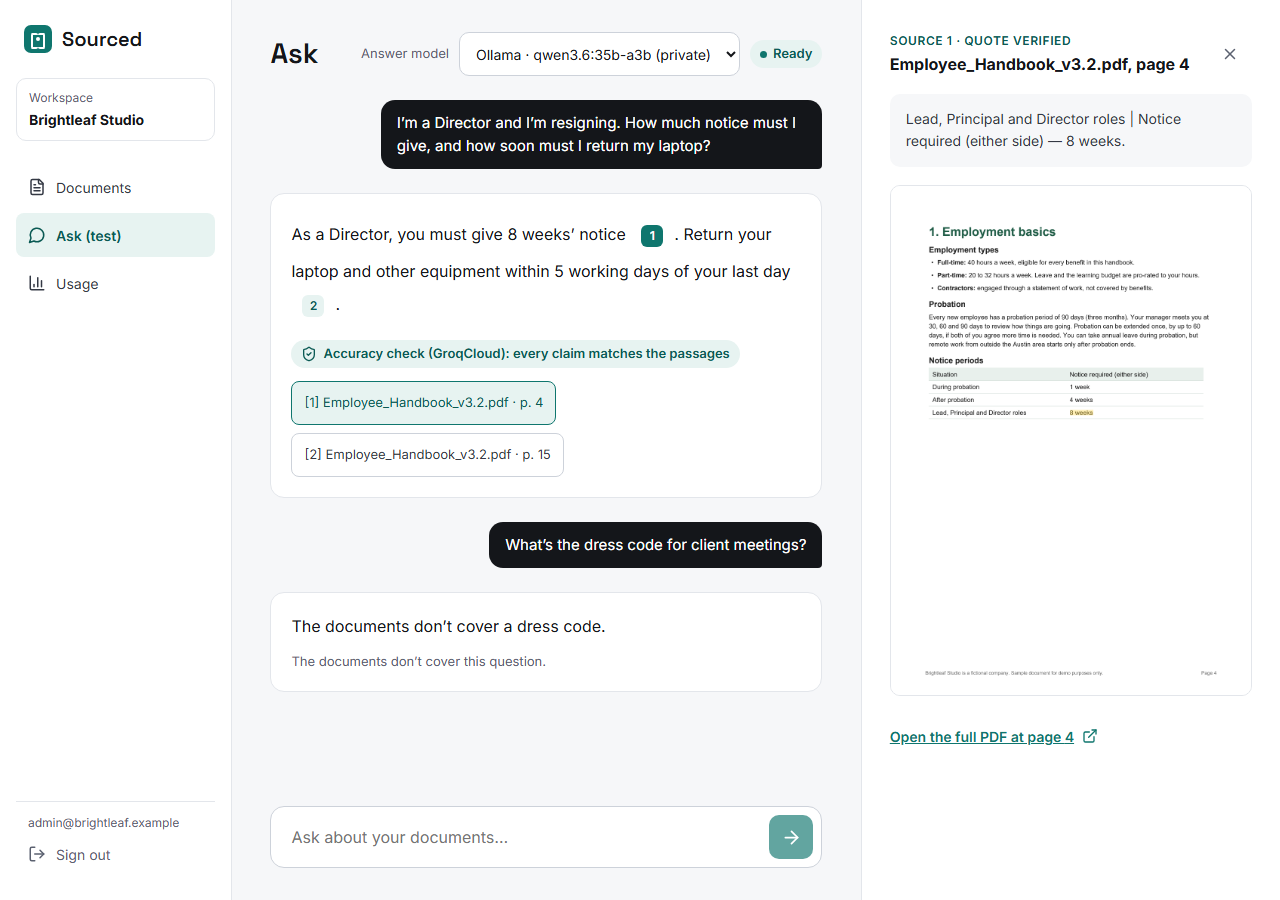
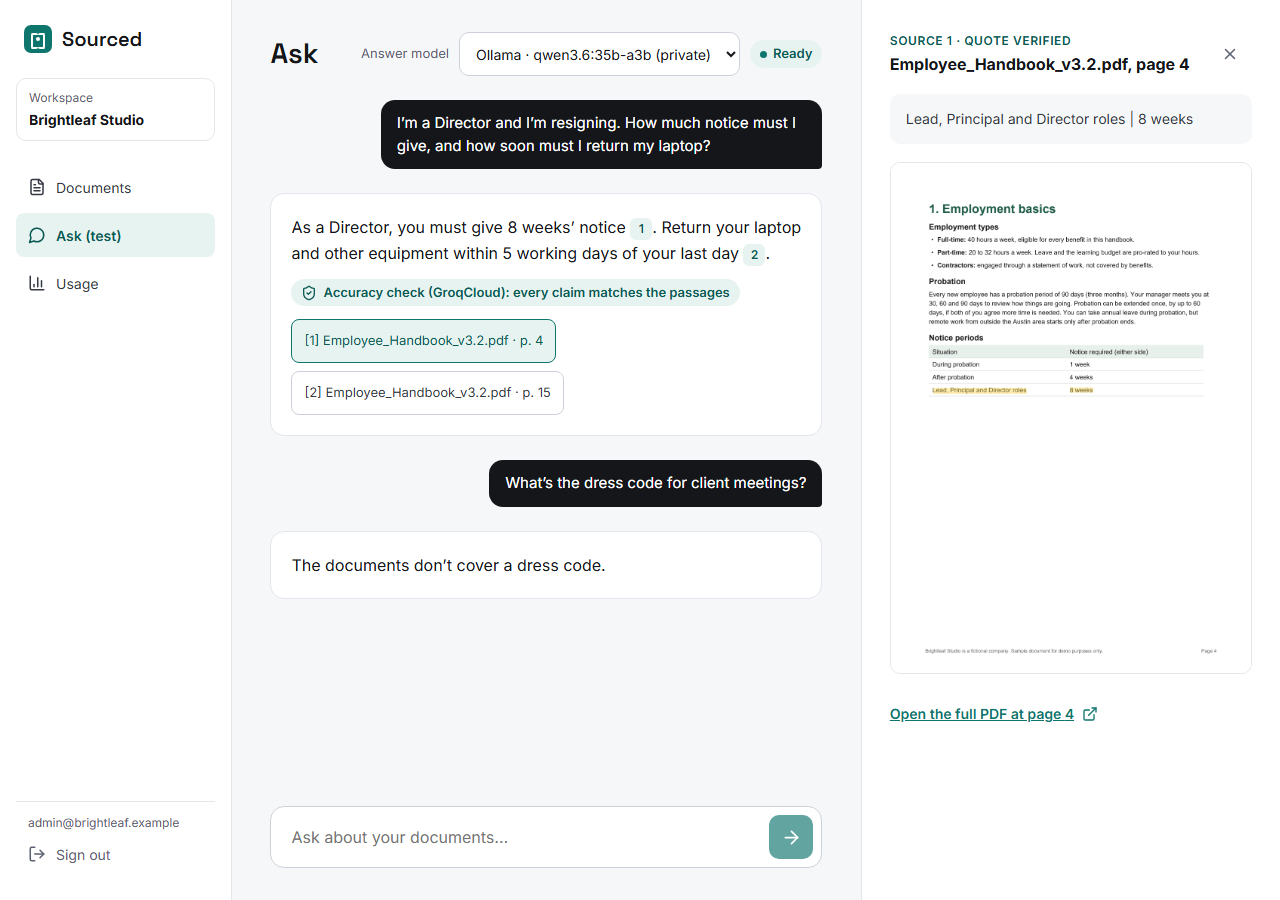
Polish dashboard citations and table quote highlights

diff --git a/frontend/e2e/screenshots.spec.ts b/frontend/e2e/screenshots.spec.ts
@@ -7,7 +7,7 @@ const date = new Date().toISOString().slice(0, 10)
 const member = { workspace_id: 'sample', workspace_name: 'Brightleaf Studio', email: 'admin@brightleaf.example' }
 const citation: Citation = {
   number: 1, document_id: '76f13c80-b1a5-4250-afd4-95c044f8be35', source: handbook, page: 4, verified: true,
-  quote: 'Lead, Principal and Director roles | Notice required (either side) — 8 weeks.',
+  quote: 'Lead, Principal and Director roles | 8 weeks',
   preview_url: null,
 }
 const answers: Answer[] = [
@@ -79,7 +79,23 @@ test('capture each dashboard and account page with fictional fixture data', asyn
   await question.fill('What’s the dress code for client meetings?')
   await question.press('Enter')
   await expect(page.getByText('The documents don’t cover a dress code.')).toBeVisible()
-  await page.getByRole('button', { name: 'Source 1' }).click()
+  const firstCitation = page.getByRole('button', { name: 'Source 1' })
+  const metrics = await firstCitation.evaluate((button) => {
+    const box = button.getBoundingClientRect()
+    const range = document.createRange()
+    range.setStart(button.nextSibling!, 0)
+    range.setEnd(button.nextSibling!, 1)
+    return {
+      punctuation: range.toString(),
+      gap: range.getBoundingClientRect().left - box.right,
+      height: box.height,
+      lineHeight: parseFloat(getComputedStyle(button.parentElement!).lineHeight),
+    }
+  })
+  expect(metrics.punctuation).toBe('.')
+  expect(Math.abs(metrics.gap)).toBeLessThan(1)
+  expect(metrics.height).toBeLessThan(metrics.lineHeight)
+  await firstCitation.click()
   await expect(page.getByRole('img', { name: 'Page 4 preview' })).toHaveJSProperty('complete', true)
   await save('ask')
   await page.goto('/usage')

diff --git a/frontend/src/styles.css b/frontend/src/styles.css
@@ -119,9 +119,8 @@ td time { color: var(--muted); white-space: nowrap; }
 .question { justify-self: end; max-width: 80%; padding: 12px 16px; border-radius: 14px 14px 4px 14px; background: var(--ink); color: white; white-space: pre-wrap; overflow-wrap: anywhere; }
 .answer { display: grid; gap: 12px; padding: 20px; overflow-wrap: anywhere; }
 .answer-text { font-size: 16px; line-height: 1.65; white-space: pre-wrap; }
-.inline-citation { display: inline-grid; min-width: 44px; min-height: 44px; align-items: center; justify-items: center; border: 0; border-radius: 8px; background: transparent; color: var(--teal-dark); vertical-align: middle; }
-.inline-citation span { display: grid; place-items: center; min-width: 22px; min-height: 22px; border-radius: 6px; padding: 0 5px; background: var(--tint); font-size: 12px; font-weight: 600; }
-.inline-citation:hover span { color: white; background: var(--teal); }
+.inline-citation { display: inline-block; min-width: 22px; height: 22px; padding: 0 4px; border: 0; border-radius: 6px; background: var(--tint); color: var(--teal-dark); font-size: 12px; font-weight: 600; line-height: 1; vertical-align: baseline; }
+.inline-citation:hover { color: white; background: var(--teal); }
 .citations { display: flex; flex-wrap: wrap; gap: 8px; }
 .citation-chip { min-height: 44px; max-width: 100%; padding: 6px 12px; border-radius: 8px; border: 1px solid var(--border-strong); color: var(--body); background: var(--surface); text-align: left; font-size: 13px; overflow-wrap: anywhere; }
 .citation-chip:hover, .citation-chip.selected { border-color: var(--teal); color: var(--teal-dark); background: var(--tint); }

diff --git a/frontend/src/Ask.tsx b/frontend/src/Ask.tsx
@@ -12,7 +12,7 @@ function inlineCitations(text: string, citations: Citation[], open: OpenSource):
       const citation = citations.find((item) => item.number === Number(number))
       return citation ? <button key={index + '-' + position} className="inline-citation" type="button"
         aria-label={'Source ' + citation.number} onClick={(event) => open(citation, event.currentTarget)}>
-        <span>{citation.number}</span>
+        {citation.number}
       </button> : '[' + number.trim() + ']'
     })
   })
@@ -34,7 +34,6 @@ export function AnswerCard({ answer, open, selected }: { answer: Answer; open: O
       <p>I couldn’t verify an answer against the documents, so I’m not showing one.</p>
       {answer.reason && <p className="muted">{answer.reason}</p>}
     </> : <p className="answer-text">{inlineCitations(answer.text, answer.status === 'answered' ? answer.citations : [], open)}</p>}
-    {answer.status === 'not_found' && <p className="muted">The documents don’t cover this question.</p>}
     {answer.partial && !blocked && <p className="notice pending">The documents answer part of this question.</p>}
     {answer.searched_for && <p className="muted"><strong>Searched for</strong> {answer.searched_for}</p>}
     {judgement && <div>

diff --git a/frontend/src/dashboard.test.tsx b/frontend/src/dashboard.test.tsx
@@ -58,7 +58,7 @@ describe('Sourced dashboard', () => {
     })
     vi.stubGlobal('fetch', fetch)
     render(<Documents />)
-    expect(await screen.findByText(/Up to 10 MB and 80 pages/)).toHaveTextContent('OpenAI')
+    expect(await screen.findByText(/Up to 10 MB and 80 pages/)).toHaveTextContent('(OpenAI). Only the passages')
     expect(screen.getByRole('progressbar', { name: 'Processing Policy.pdf' })).toHaveValue(60)
     expect(screen.getByText('Couldn’t read')).toBeVisible()
     expect(screen.getByText('<b>Scan.pdf</b>')).toBeVisible()
@@ -109,7 +109,8 @@ describe('Sourced dashboard', () => {
     expect(screen.queryByText('Private rejected text')).not.toBeInTheDocument()
     view.rerender(<AnswerCard answer={{ ...answer, status: 'not_found', text: 'I couldn’t find that.',
       partial: false, searched_for: '', judgement: null }} open={open} />)
-    expect(screen.getByText('The documents don’t cover this question.')).toBeVisible()
+    expect(screen.getByText('I couldn’t find that.')).toBeVisible()
+    expect(screen.queryByText('The documents don’t cover this question.')).not.toBeInTheDocument()
     expect(screen.queryByRole('button', { name: 'Source 1' })).not.toBeInTheDocument()
   })
 

diff --git a/frontend/src/Documents.tsx b/frontend/src/Documents.tsx
@@ -117,7 +117,7 @@ export function Documents() {
       <div className="upload-copy">
         <strong>Drop PDFs here, or choose files</strong>
         {limits && <p>Up to {limits.max_bytes / 1024 ** 2} MB and {limits.max_pages} pages each.{' '}
-          {limits.embedding_provider ? 'Text is indexed by your search provider (' + limits.embedding_provider + '); ' : 'A search provider must be configured to index text. '}
+          {limits.embedding_provider ? 'Text is indexed by your search provider (' + limits.embedding_provider + '). ' : 'A search provider must be configured to index text. '}
           Only the passages relevant to a question go to the answer model.</p>}
         {!limits && !settings.error && <p>Loading upload limits…</p>}
         <ResourceError error={settings.error} refresh={settings.refresh} />

diff --git a/backend/tests/test_admin_dashboard.py b/backend/tests/test_admin_dashboard.py
@@ -3,8 +3,10 @@ from io import BytesIO
 
 from fastapi.testclient import TestClient
 from PIL import Image, ImageChops
+from reportlab.pdfgen.canvas import Canvas
 
 from backend.app.main import app
+from backend.app.pdf_tasks import render_preview
 from backend.app.settings import DocumentLimits
 from backend.app.worker import process_one
 from rag.offline import HashingEmbedder, KeywordChat
@@ -73,3 +75,34 @@ def test_upload_settings_pdf_and_quote_highlight_are_scoped(workspace_client, se
         signup(other, "beta")
         assert other.get(path + "/pdf").status_code == 404
         assert other.post(highlight_path, headers=csrf(other), json={"quote": ALPHA_TEXT}).status_code == 404
+
+
+def test_table_quote_highlights_each_matching_piece():
+    buffer = BytesIO()
+    page_width, page_height = 612, 792
+    pdf = Canvas(buffer, pagesize=(page_width, page_height))
+    matching_cells = [
+        (45, 735, "Director roles"),
+        (285, 735, "8 weeks"),
+        (45, 660, "Business days"),
+        (45, 585, "Return equipment"),
+    ]
+    short_cell = (285, 585, "HR")
+    for cell in [*matching_cells, short_cell]:
+        pdf.drawString(*cell)
+    pdf.save()
+    data = buffer.getvalue()
+    quote = "Director roles | 8 weeks … Business days ... Return equipment | Absent column | HR"
+
+    with Image.open(BytesIO(render_preview(data, 1))) as plain, Image.open(BytesIO(render_preview(data, 1, quote))) as marked:
+        changes = ImageChops.difference(plain.convert("RGB"), marked.convert("RGB"))
+
+    def cell_changed(x, y, _text):
+        scale_x, scale_y = changes.width / page_width, changes.height / page_height
+        return changes.crop((
+            int((x - 4) * scale_x), int((page_height - y - 18) * scale_y),
+            int((x + 130) * scale_x), int((page_height - y + 4) * scale_y),
+        )).getbbox() is not None
+
+    assert all(cell_changed(*cell) for cell in matching_cells)
+    assert not cell_changed(*short_cell)

diff --git a/backend/app/pdf_tasks.py b/backend/app/pdf_tasks.py
@@ -4,6 +4,7 @@ import io
 import json
 import math
 import os
+import re
 import subprocess
 import sys
 from dataclasses import asdict, replace
@@ -73,16 +74,25 @@ def render_preview(data: bytes, page_number: int, quote: str = "") -> bytes:
 
             text = page.get_textpage()
             match = text.search(quote).get_next()
-            if match:
+            matches = [match] if match is not None else []
+            if not matches:
+                pieces = dict.fromkeys(piece.strip() for piece in re.split(r"\||…|\.\.\.", quote))
+                for piece in pieces:
+                    if len(piece) >= 4:
+                        match = text.search(piece).get_next()
+                        if match is not None:
+                            matches.append(match)
+            if matches:
                 image = image.convert("RGB")
                 draw = ImageDraw.Draw(image, "RGBA")
                 position = bitmap.get_posconv(page)
                 text.count_rects()
-                for index in range(text.count_rects(*match)):
-                    left, bottom, right, top = text.get_rect(index)
-                    x1, y1 = position.to_bitmap(left, top)
-                    x2, y2 = position.to_bitmap(right, bottom)
-                    draw.rectangle((min(x1, x2), min(y1, y2), max(x1, x2), max(y1, y2)), fill=(255, 215, 66, 100))
+                for match in matches:
+                    for index in range(text.count_rects(*match)):
+                        left, bottom, right, top = text.get_rect(index)
+                        x1, y1 = position.to_bitmap(left, top)
+                        x2, y2 = position.to_bitmap(right, bottom)
+                        draw.rectangle((min(x1, x2), min(y1, y2), max(x1, x2), max(y1, y2)), fill=(255, 215, 66, 100))
         output = io.BytesIO()
         image.save(output, format="PNG")
         return output.getvalue()

diff --git a/frontend/e2e/run_live.py b/frontend/e2e/run_live.py
@@ -53,7 +53,7 @@ def main():
         if args.screenshots:
             directory = Path(stack.enter_context(tempfile.TemporaryDirectory()))
             preview = directory / "preview.png"
-            preview.write_bytes(render_preview(SAMPLE_PDF.read_bytes(), 4, "8 weeks"))
+            preview.write_bytes(render_preview(SAMPLE_PDF.read_bytes(), 4, "Lead, Principal and Director roles | 8 weeks"))
             env["SOURCED_PREVIEW_PNG"] = str(preview)
 
         api = subprocess.Popen(
